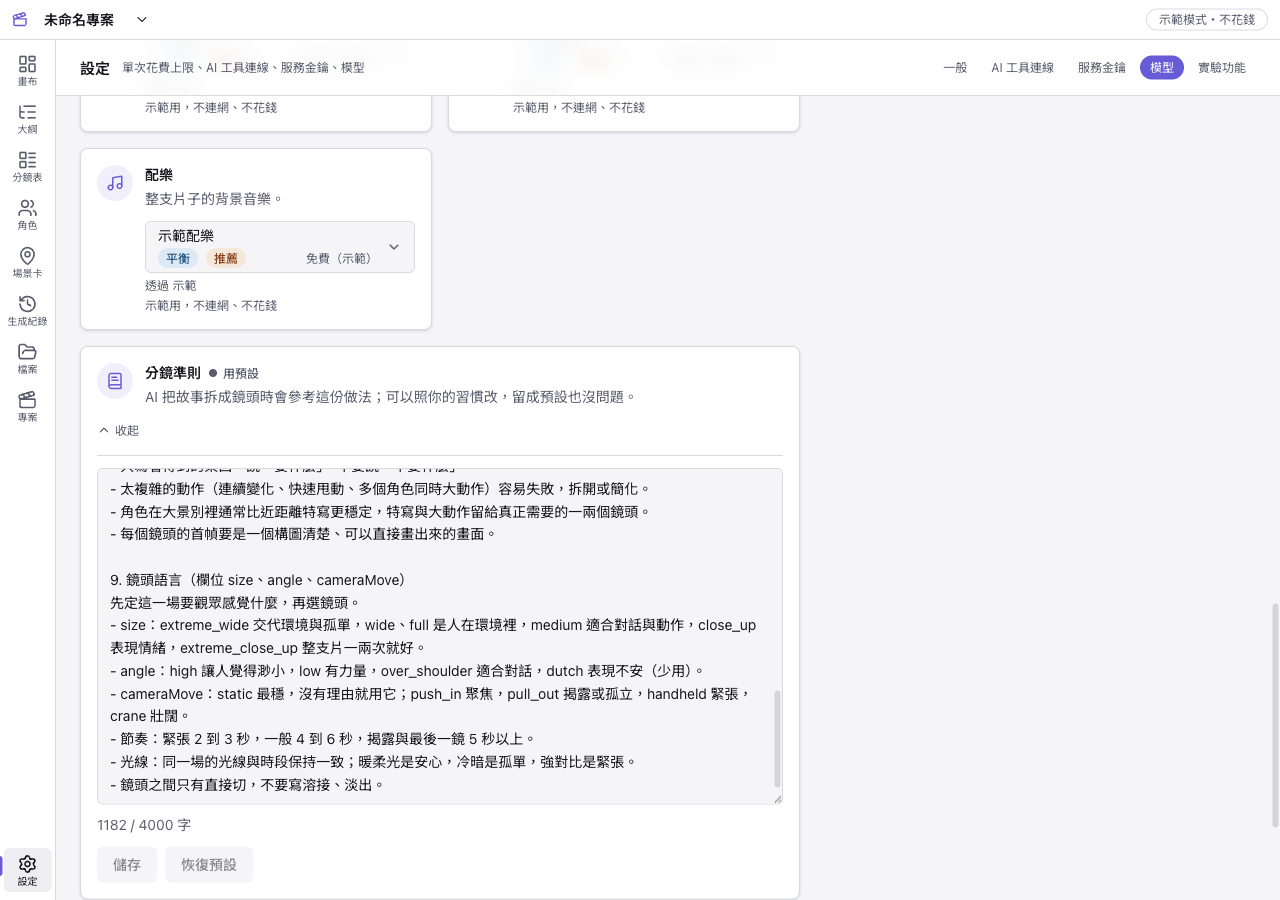
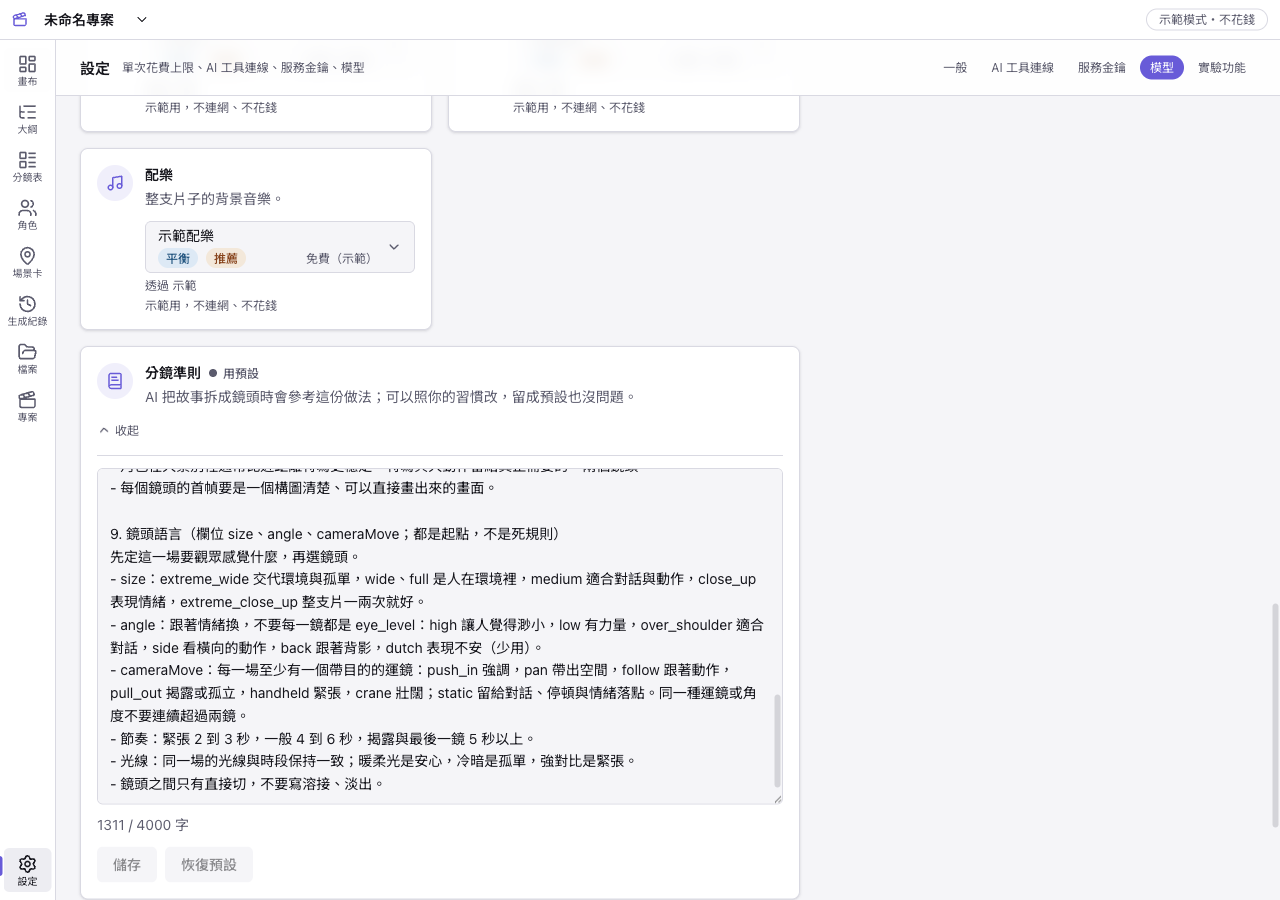
fix(mcp): 運鏡指南不預設 static——每場至少一個帶目的的運鏡、同一種不連續超過兩鏡
真實模式比較（3 個故事、前後各 6 次拆鏡）：第一版「沒有理由就用 static」讓 static 從 44% 升到 64%，
是反方向。改成：
- 每一場至少有一個帶目的的運鏡；同一種運鏡或角度不要連續超過兩鏡；static 留給對話、停頓與情緒落點
- 拆鏡預設準則第 6 條「沒有理由就不要動」同時拿掉；angle 要跟著情緒換
- MCP 指南同步（rule 3、4、static 說明、情緒對鏡頭、檢查清單），兩邊不互相打架
第二輪：static 17%、運鏡每次 5.8 種（原 3.5）、角度 4.3 種（原 3.2）、景別沒退步（HQ 有完整數據）

Claude-Session: https://claude.ai/code/session_018jegRqFP4tu2jGb6XrpT7E

Changed region(s): [[0.0938, 0.5289, 0.5938, 0.8089], [0.0938, 0.84, 0.5, 0.9333]]

diff --git a/apps/desktop/src/main/mcp/tools/guides.ts b/apps/desktop/src/main/mcp/tools/guides.ts
@@ -58,8 +58,9 @@ Read this before split_scene_into_shots and whenever you create or edit shots. T
 Rules
 1. One shot, one idea: one action, one camera move.
 2. Neighbouring shots must differ: change size by a step or more, or change angle. Never the same size three times running.
-3. Video models are steadier when a shot is wide and slow. Save close-ups and big motion for one or two shots that need them.
-4. Describe what should be seen, never what to avoid.
+3. Choose the camera move on purpose for every shot. Each scene needs at least one move with a purpose: push_in to stress something, pan to open up the space, follow to travel with an action. Do not repeat the same move, or the same angle, in more than two shots in a row. Keep static for dialogue, a pause, an emotional landing.
+4. Video models fail more on big, fast motion and on close-ups of a moving character. Save those for the one or two shots that need them; a slow push_in, pan or follow on a wide shot is safe.
+5. Describe what should be seen, never what to avoid.
 
 Size (size)
 - extreme_wide: the place, its scale, a lone character. Opens or closes a scene.
@@ -74,7 +75,7 @@ Angle (angle)
 - back: following someone, or hiding the face. dutch: unease; sparingly.
 
 Camera move (cameraMove: a preset id, or null)
-- static: calm, watching; the default when you have no reason to move.
+- static: calm, watching; for dialogue, a pause, an emotional landing.
 - push_in: focus, closeness, dread. pull_out: reveal, or leaving someone alone.
 - pan: sweeping a space. tilt: height or scale. follow: travelling with the subject.
 - orbit: all sides of a subject; short shots only. handheld: urgency, realism.
@@ -95,13 +96,13 @@ The app joins shots with straight cuts. There is no dissolve, fade or wipe, so d
 
 Feeling to shot
 Starting points, not laws:
-- Lonely: extreme_wide or wide, subject small in a corner; high or eye_level; static or a very slow pull_out; 4 to 6 s; cold, dim, one light.
-- Warm, trusting: medium then close_up; eye_level (over_shoulder for two people); static or slow push_in; 3 to 5 s; soft warm light.
+- Lonely: extreme_wide or wide, subject small in a corner; high or eye_level; a very slow pull_out, or static; 4 to 6 s; cold, dim, one light.
+- Warm, trusting: medium then close_up; eye_level (over_shoulder for two people); slow push_in, or static on the words; 3 to 5 s; soft warm light.
 - Tense: alternate close_up and wide; dutch, low or back; handheld, push_in as something closes in; 2 to 3 s; hard light, strong contrast.
 - Reveal, awe: close_up reaction then extreme_wide (or reverse); low or overhead; pull_out, crane or tilt; hold the reveal 5 s or more after a small, short shot; backlight.
-- Calm ending: wide or medium, steady; eye_level; static or slow pull_out, one slow_motion detail; last shot 5 s or more; softer light.
+- Calm ending: wide or medium, steady; eye_level; slow pull_out, or static on the last image; one slow_motion detail; last shot 5 s or more; softer light.
 
-Check each scene: sizes vary, every move has a reason, neighbours differ, light is consistent, no shot does two things.
+Check each scene: sizes vary, at least one move has a purpose, no move or angle repeats more than twice in a row, neighbours differ, light is consistent, no shot does two things.
 `
 
 /** 使用者自己改過的分鏡準則（設定頁）優先，沒改就是內建的。 */

diff --git a/packages/schema/src/domain/storyboard-guide.ts b/packages/schema/src/domain/storyboard-guide.ts
@@ -22,8 +22,8 @@ export const DEFAULT_STORYBOARD_GUIDE = `1. 一個鏡頭只做一件事
 - 動作做到一半就切，比做完才切順。
 - 上一鏡的結尾和下一鏡的開頭最好有呼應（形狀、顏色、方向）。
 
-6. 運鏡要有理由
-推近是聚焦或逼近，拉遠是揭露環境或讓角色孤立，橫移是跟隨或展示空間，仰拍給力量或壓迫感，俯拍給渺小或全貌，固定鏡頭給穩定或靜止。沒有理由就不要動。
+6. 運鏡要有目的
+推近是聚焦或逼近，拉遠是揭露環境或讓角色孤立，橫移是跟隨或展示空間，仰拍給力量或壓迫感，俯拍給渺小或全貌，固定鏡頭留給對話、停頓與情緒落點。每一鏡都要選一個對的運鏡，不要預設不動。
 
 7. 每個畫面都要看得懂
 寫清楚誰是主體、在畫面的哪個位置、佔多大，光線從哪裡來、是什麼氣氛。這樣才能直接拿去畫成首幀。沒有對白時，靠動作、表情、光影和構圖說故事。
@@ -34,11 +34,11 @@ export const DEFAULT_STORYBOARD_GUIDE = `1. 一個鏡頭只做一件事
 - 角色在大景別裡通常比近距離特寫更穩定，特寫與大動作留給真正需要的一兩個鏡頭。
 - 每個鏡頭的首幀要是一個構圖清楚、可以直接畫出來的畫面。
 
-9. 鏡頭語言（欄位 size、angle、cameraMove）
+9. 鏡頭語言（欄位 size、angle、cameraMove；都是起點，不是死規則）
 先定這一場要觀眾感覺什麼，再選鏡頭。
 - size：extreme_wide 交代環境與孤單，wide、full 是人在環境裡，medium 適合對話與動作，close_up 表現情緒，extreme_close_up 整支片一兩次就好。
-- angle：high 讓人覺得渺小，low 有力量，over_shoulder 適合對話，dutch 表現不安（少用）。
-- cameraMove：static 最穩，沒有理由就用它；push_in 聚焦，pull_out 揭露或孤立，handheld 緊張，crane 壯闊。
+- angle：跟著情緒換，不要每一鏡都是 eye_level：high 讓人覺得渺小，low 有力量，over_shoulder 適合對話，side 看橫向的動作，back 跟著背影，dutch 表現不安（少用）。
+- cameraMove：每一場至少有一個帶目的的運鏡：push_in 強調，pan 帶出空間，follow 跟著動作，pull_out 揭露或孤立，handheld 緊張，crane 壯闊；static 留給對話、停頓與情緒落點。同一種運鏡或角度不要連續超過兩鏡。
 - 節奏：緊張 2 到 3 秒，一般 4 到 6 秒，揭露與最後一鏡 5 秒以上。
 - 光線：同一場的光線與時段保持一致；暖柔光是安心，冷暗是孤單，強對比是緊張。
 - 鏡頭之間只有直接切，不要寫溶接、淡出。`

diff --git a/packages/schema/src/domain/storyboard-guide.test.ts b/packages/schema/src/domain/storyboard-guide.test.ts
@@ -30,6 +30,14 @@ describe('分鏡準則', () => {
     expect(DEFAULT_STORYBOARD_GUIDE.match(/溶接|淡出/g)).toHaveLength(2)
   })
 
+  it('運鏡不預設不動：沒有「沒理由就用 static／就不要動」；每場至少一個帶目的的運鏡、同一種不連續超過兩鏡', () => {
+    expect(DEFAULT_STORYBOARD_GUIDE).not.toContain('沒有理由就用')
+    expect(DEFAULT_STORYBOARD_GUIDE).not.toContain('沒有理由就不要動')
+    expect(DEFAULT_STORYBOARD_GUIDE).toContain('每一場至少有一個帶目的的運鏡')
+    expect(DEFAULT_STORYBOARD_GUIDE).toContain('同一種運鏡或角度不要連續超過兩鏡')
+    expect(DEFAULT_STORYBOARD_GUIDE).toContain('static 留給對話、停頓與情緒落點')
+  })
+
   it('沒自訂（空白）就用預設，有自訂就用自訂', () => {
     expect(resolveStoryboardGuide(undefined)).toBe(DEFAULT_STORYBOARD_GUIDE)
     expect(resolveStoryboardGuide('  \n')).toBe(DEFAULT_STORYBOARD_GUIDE)

diff --git a/apps/desktop/src/main/mcp/guides.test.ts b/apps/desktop/src/main/mcp/guides.test.ts
@@ -35,6 +35,13 @@ describe('load_guide("cinematography")', () => {
     expect(feeling.indexOf('Starting points, not laws:')).toBeLessThan(feeling.indexOf('- Lonely'))
   })
 
+  it('運鏡要選對的、不預設不動：每場至少一個帶目的的運鏡、同一種運鏡或角度不連續超過兩鏡；static 留給對話與停頓', () => {
+    expect(cinematography).not.toMatch(/default when you have no reason/i)
+    expect(cinematography).toContain('Each scene needs at least one move with a purpose')
+    expect(cinematography).toContain('in more than two shots in a row')
+    expect(cinematography).toContain('Keep static for dialogue, a pause, an emotional landing')
+  })
+
   it('長度不超過現有最長指南的 1.5 倍（每個工作階段載入都要花 token）', () => {
     const longest = Math.max(
       ...GUIDE_TOPICS.filter((t) => t !== 'cinematography' && t !== 'storyboard').map(
